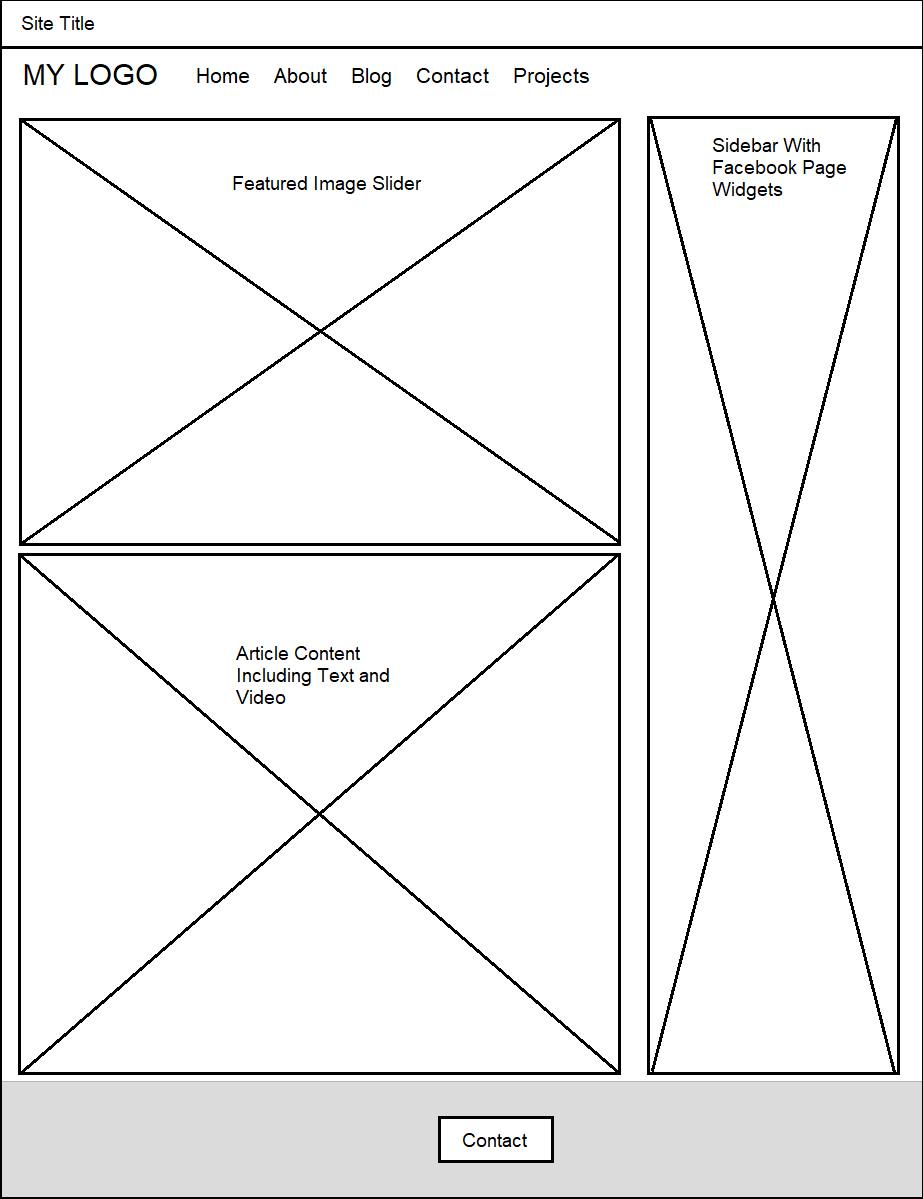
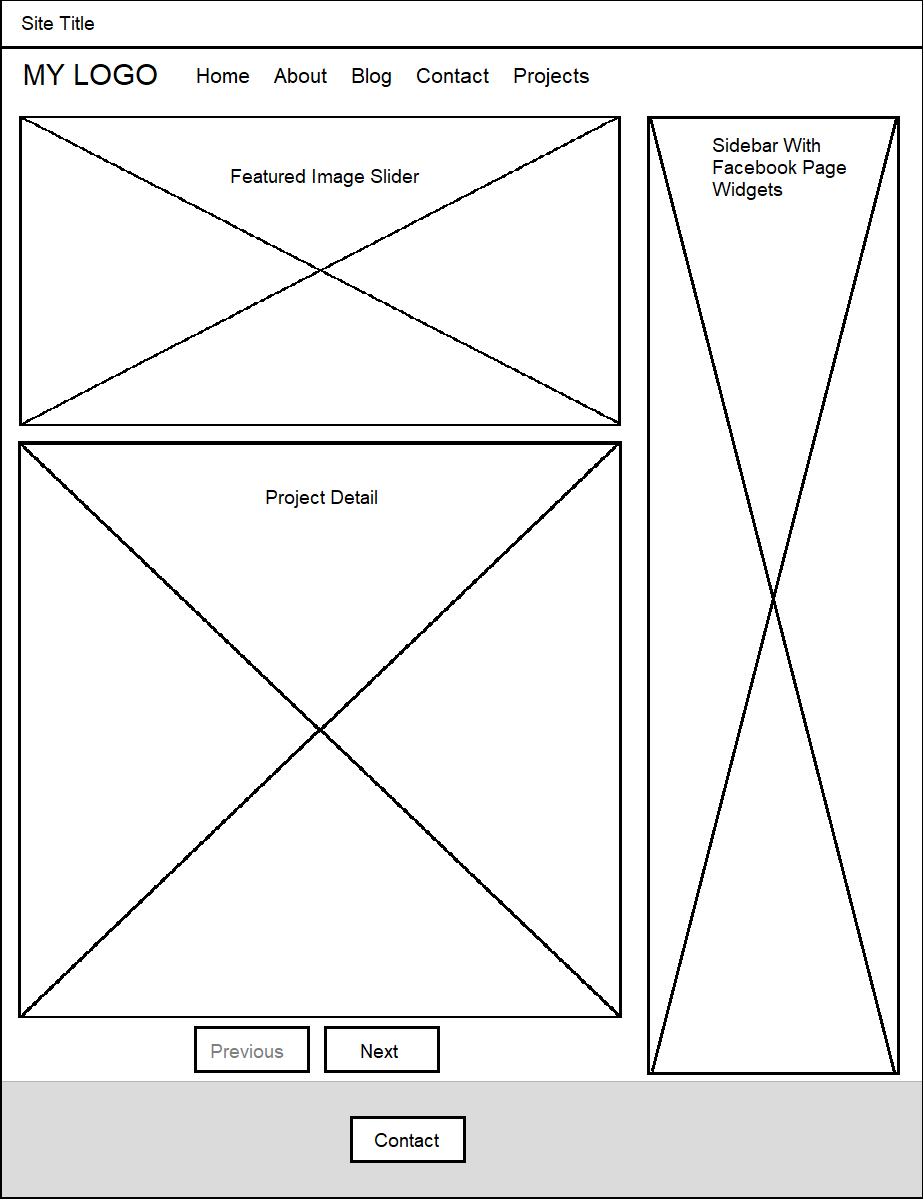
Add page navigation for projects.html. Make multiple CSS and HTML edits.

diff --git a/projects3.html b/projects3.html
@@ -5,12 +5,12 @@
     <meta name="viewport" content="width=device-width, initial-scale=1.0">
     <title>Shenica Graham's Projects</title>
     <!-- Link CSS stylesheets -->
-    <link rel="stylesheet" type="text/css" href="style/blog.css">
+    <link rel="stylesheet" type="text/css" href="style/project3.css">
     <link rel='stylesheet' href='https://fonts.googleapis.com/css?family=Beth Ellen'>
     <!-- Link Scripts -->
     <script src="https://kit.fontawesome.com/2563865650.js" crossorigin="anonymous"></script>
 </head>
-<body><!-- Wireframe Option5.png -->
+<body><!-- Wireframe Option7.png -->
     <!-- Making The Facebook Plugins Work -->
         <div id="fb-root"></div>
         <script async defer crossorigin="anonymous" src="https://connect.facebook.net/en_US/sdk.js#xfbml=1&version=v7.0" nonce="YSgZEoLg"></script>
@@ -23,9 +23,9 @@
         <nav>
           <a href="index.html">Home</a>
           <a href="about.html">About</a>
-          <a href="#" class="active"><i class="fab fa-wordpress"></i>&nbsp;Blog</a>
+          <a href="blog.html">Blog</a>
           <a href="contact.html">Contact</a>
-          <a href="projects.html">Projects</a>
+          <a href="projects.html" class="active"><i class="fas fa-project-diagram"></i>&nbsp;Projects</a>
     </div> <!-- End LOGO and Navigation Bar -->
 </header> <!-- END HEADER -->
 <!-- BEGIN content container -->
@@ -33,23 +33,45 @@
     <!------ Begin Featured Projects (main content) Column-->
     <section id="maincontent">
         <div class="projects">
-          <div class="project1">
-            <!-- BEGIN Page Content -->
-            <p><h1>Help Me Support Charity: Water</h1>
-                <h3 class="firsth3"><i class="fab fa-wordpress"></i> The Latest From My Blog...</h3>
-                <p><img src="images/charitywater.png"/></p>
-                <!-- BEGIN Portfolio Slideshow -->
-                <p>Many of us have no idea what it is like to be actually thirsty. We have plenty of water to drink — even the water in our toilets is clean! Unfortunately, many people around the world do not have that luxury.</p>
-                <p>Every day, about 1,400 children die from diseases caused by unsafe water and poor sanitation. But it does not have to be that way. There are simple solutions like drilled wells, spring protections, and BioSand filters that help provide clean water to communities across the globe. That’s where charity: water comes in. Watch “The Spring – The charity: water story.”</p>
-                <p><iframe width="560" height="315" src="https://www.youtube.com/embed/bdBG5VO01e0" frameborder="0" allow="accelerometer; autoplay; encrypted-media; gyroscope; picture-in-picture" allowfullscreen></iframe></p>
-                <p>Today, I became a <a href="https://www.charitywater.org/shenicargraham" target="_blank">Spring Member</a>, pledging a donation to charity: water every month. Since I was a child, I wanted to help people in Africa. I am teaching my Kenyan son to appreciate how fortunate we are. We have this giving project to share as a family. I hope to someday take him to see wells being built in his other home country.</p>
-                <p>We want to help provide clean and safe drinking water to members our our family and people of the world community who are in need. I also started a fundraising campaign for charity: water called, “<a href="https://www.charitywater.org/shenicargraham/songs-for-water-by-shenica-r-graham" target="_blank">Songs For Water</a>.” This fundraiser is to help charity: water build the much needed water projects around the world.</p>
-                <p>As some of you (my faithful readers) know, I am releasing a single next month (including some of the songs in the player at the bottom of this post), followed by an album in the Spring (May 2021). To boost the Songs For Water campaign, I will be donating 50% of sales from downloads of my songs to charity: water. You can purchase songs at <a href="http://reverbnation.com/shenicagraham" target="_blank">reverbnation.com/shenicagraham</a>. Spotify links coming soon!</p>
-                <p>Better yet, donate to my “Songs For Water” campaign directly by giving your gift on this page: <a href="https://www.charitywater.org/shenicargraham/songs-for-water-by-shenica-r-graham" target="_blank">https://www.charitywater.org/shenicargraham/songs-for-water-by-shenica-r-graham</a>. Anything you give is much appreciated. I will post updates as they come. Thank you in advance for your gift to support charity: water.</p>
-                <p><strong>IMPORTANT</strong>: 100% of your donation at the above linked page will be used to build clean water projects. When those projects are complete, charity: water will send us photos and GPS coordinates so we can see the exact community we helped. There’s nothing to lose and so many lives to gain, so please donate today!</p>
+            <div class="project1">
+              <p><h1>Projects 3</h1>
+                <h3 class="firsth3"><i class="fas fa-project-diagram"></i> Portfolio Details continued...</h3>
+            </div>
+            <div class="projectdetail">
+                <h3><i class="far fa-image"></i> Featured Project Overview: My Psych Teacher University</h3>
+                <h4 class="firsth3"><i class="fas fa-info-circle"></i> About My Psych Teacher University</h4>
+                <p></p>
+                <p>My Psych Teacher University (MPTU) is a fully online educational community offering flexible interactive courses in psychology, specializing in mental health and other topics under the umbrella of psychology. Our courses help students transform their mental health journey from anywhere in the world at their own pace.</p>
+                <p>My Psych Teacher University was founded May 14, 2020 by a single tutor / teacher – its current founder, Shenica R. Graham. She saw an untapped potential in the mental health education industry. This potential was in creating a new low cost position while maintaining quality competitiveness with larger more established companies on quality.</p>
+            </div>
+            <div class="projectdetail">
                 <img src="images/spacer.png">
-                <p><iframe width="100%" height="265" scrolling="no" frameborder="no" src="https://www.reverbnation.com/widget_code/html_widget/artist_845743?widget_id=55&pwc[included_songs]=1&context_type=page_object&spoid=artist_845743&pwc[size]=small&pwc[color]=dark" style="width:0px;min-width:100%;max-width:100%;"></iframe></p>
-            </p>
+                <h4 class="firsth3"><i class="fas fa-info-circle"></i> The How? My Psych Teacher University</h4>
+                <p></p>
+                <img src="images/portfolio/banners/mypsychteacherfb2020.png" width="790" title="Haute Midwest Magazine design detail"/>
+                <p>The website cover / banner shown above was designed using a Fotor image template. The color scheme and background were changed. Knowing the stigma of mental illness, I wanted to bring the opposite of despair and suffering to the forefront. When I found this template featuring a brightly smiling woman's face, I knew it was the right juxtaposition emoting joy of mental health. I also wanted the image to be colorful, like the many graphical displays of the human brain with its functioning regions depicted by different colors.</p>
+                <p class="logo"><img src="images/portfolio/banners/MyPsychTeacherUniversityLogo_Transparent_Small.png">The MPTU logo (shown at left) was designed to be a bold image of the university name, something that would be memorable and look well in a web design. It includes my trademark element of a rotated word (in this case, horiozontal to vertical): the ".COM" is vertical at the right border of the image. </p>
+                <p class="logo"><img src="images/portfolio/banners/mypsychteacher_blackbanners.png">For the My Psych Teacher (LLC) logos, I wanted to make the word "My" a standout image to show ownership by those who study here. This is a university for the people, genuinely reaching out to provide services to the mental health commmunity.</p>
+                <p>The WordPress content management system (CMA) was used to create the website. WordPress was used because as a Web and CSS designer with over 9 years experience working in WordPress, I have not found a better, more user-friendly, consistent, reliable CMS.</p>
+                <p>This project implements the Appetite WordPress template (theme), including extensive graphic design and online copywriting at MPTU (<a href="http://mypsychteacheruniversity.com" target="_blank">http://mypsychteacheruniversity.com</a>) and the parent company, My Psych Teacher, LLC (<a href="http://mypsychteacher.com" target="_blank">http://mypsychteacher.com</a>).</p>
+            </div>
+            <div class="projectdetail">
+                <img src="images/spacer.png">
+                <h4 class="firsth3"><i class="far fa-image"></i> Featured Project Element: My Psych Teacher Video</h4>
+                <p><strong>"Instructor Bio – Shenica Graham"</strong></p>
+                <p>Shenica Graham wrote the script for and recorded this video.</p>
+                <p><iframe width="560" height="315" src="https://www.youtube.com/embed/E3ydq2Lu5Io" frameborder="0" allow="accelerometer; autoplay; encrypted-media; gyroscope; picture-in-picture" allowfullscreen></iframe></p>
+            </div>
+            <div class="projectdetail">
+                <img src="images/spacer.png">
+                <h4 class="firsth3"><i class="far fa-image"></i> Featured Project Element: My Psych Teacher Video</h4>
+                <p><strong>"My Psych Teacher University is Here For You"</strong></p>
+                <p>Shenica Graham wrote the script and selected the clips for this video.</p>
+                <p><iframe width="560" height="315" src="https://www.youtube.com/embed/ssDdI_JhJFU" frameborder="0" allow="accelerometer; autoplay; encrypted-media; gyroscope; picture-in-picture" allowfullscreen></iframe></p>
+            </div>
+            <div class="projectdetail">
+                <p><br/><hr/></p>
+                <p><a href="projects2.html"><button>previous</button></a>&nbsp;&nbsp; | &nbsp;&nbsp;<a href="http://shenicargraham.com" target="_blank"><button>more</button></a></p>
             </div>
         </div>
     </section><!-------------------------------------  END Featured Projects (main content) Column  ----------->

diff --git a/projects.html b/projects.html
@@ -41,38 +41,17 @@
                 <p><div class="slideshow-container">
 
                   <div class="mySlides fade">
-                    <div class="numbertext">1 / 5</div>
+                    <div class="numbertext">1 / 2</div>
                     <img src="images/portfolio/websites/hautemidwest-3.png" style="width:100%">
                     <div class="text">WordPress Template Customization: Haute Midwest Fashion Magazine<br/>
                       <a href="http://hautemidwest.wordpress.com" target="_blank">hautemidwest.wordpress.com</a></div>
                   </div>
 
                   <div class="mySlides fade">
-                    <div class="numbertext">2 / 5</div>
+                    <div class="numbertext">2 / 2</div>
                     <img src="images/portfolio/banners/mypsychteacherfb2020.png" style="width:100%">
                     <div class="text">WordPress Template Customization: My Psych Teacher University<br/>
-                    <a href="https://mypsychteacheruniversity.com/" target="_blank">mypsychteacheruniversity.com</a></div>
-                  </div>
-
-                  <div class="mySlides fade">
-                    <div class="numbertext">3 / 5</div>
-                    <img src="images/portfolio/websites/shineonpurpose2020.png" style="width:100%">
-                    <div class="text">WordPress Template Customization: Shine on Purpose - 31 Women Ministry<br/>
-                    <a href="http://shineonpurpose.wordpress.com" target="_blank">shineonpurpose.wordpress.com</a></div>
-                  </div>
-                  
-                  <div class="mySlides fade">
-                    <div class="numbertext">4 / 5</div>
-                    <img src="images/portfolio/websites/gsyndicates2020.png" style="width:100%">
-                    <div class="text">WordPress Template Customization: GSyndicates Fashion Design<br/>
-                      <a href="http://gsyndicates.wordpress.com" target="_blank">gsyndicates.wordpress.com</a></div>
-                  </div>
-
-                  <div class="mySlides fade">
-                    <div class="numbertext">5 / 5</div>
-                    <img src="images/portfolio/websites/wiseeku.png" style="width:100%">
-                    <div class="text">WordPress Template Customization: WiSeekU Bible Study Institute<br/>
-                      <a href="http://wiseeku.wordpress.com" target="_blank">wiseeku.wordpress.com</a></div>
+                    <a href="https://mypsychteacheruniversity.com/" target="_blank">mypsychteacheruniversity.com</a> | Project details begin on <a href="projects3.html">p. 3</a></div>
                   </div>
                   
                   <a class="prev" onclick="plusSlides(-1)">&#10094;</a>
@@ -82,9 +61,16 @@
               </p><!-- END Portfolio Slideshow -->
             </div>
             <div class="projectdetail">
-                <h3><i class="far fa-image"></i> The HOW?</h3>
-                <h4 class="firsth3"><i class="far fa-image"></i> Project Overview: Haute Midwest Magazine</h4>
-                <p><br/></p>
+                <h3><i class="far fa-image"></i> Featured Project Overview: Haute Midwest Magazine</h3>
+                <h4 class="firsth3"><i class="fas fa-info-circle"></i> About Haute Midwest Magazine</h4>
+                <p></p>
+                <p>Haute Midwest Magazine (HM) online is part of Haute Midwest Enterprises family, a division of Sherell Ra Sha Inc. HM is the Official Magazine of Iowa’s premiere fashion house, House of Sherell. We help promote fashion-centered events and foster growth in the Midwest fashion industry.</p>
+                <p>Shenica R. Graham founded Haute Midwest Magazine with Sponsor, House of Sherell, on November 7, 2013 following her Apparel & Accessory Designer début (collection titled GSIA – now part of GSyndicates) at the House of Sherell Fashion Extravaganza on November 6, 2013. Her lexicographical influence and talent portfolio is driving HM to the top of the fashion u-net-verse. She envisioned the Haute Midwest brand as a multifaceted and growing enterprise. Therefore, this project began as a conglomeration of several projects undertaken at once and spanning all HM divisions.</p>
+            </div>
+            <div class="projectdetail">
+                <img src="images/spacer.png">
+                <h4 class="firsth3"><i class="fas fa-info-circle"></i> The How? Haute Midwest Magazine</h4>
+                <p></p>
                 <img src="images/portfolio/banners/hautemidwest_sherellrasha-com-1.png" width="790" title="Haute Midwest Magazine design detail"/>
                 <p>The website cover / banner shown above is a completely original design. It is an enlarged variation of the first logo that I created for Haute Midwest. How did the design come to fruition?</p>
                 <p>First, I was thinking about fashion and specifically about fashion shows. I wanted to bring the concept of the “spotlight” to the stage. Next, rotating a letter or a word in a logo name from a horizontal to a vertical orientation (or vice versa) is one of my graphic design trademarks. I have a way of finding just the right element to spin.</p>
@@ -92,29 +78,12 @@
                 <p>I created several derivative logos featuring the spotlighted and rotated “M,” each representing a different division of Haute Midwest Enterprises.</p>
                 <p class="logo"><img src="images/portfolio/logos/hautemidwest_mag.png">The WordPress content management system (CMA) was used to create the website. WordPress was used because as a Web and CSS designer with over 9 years experience working in WordPress, I have not found a better, more user-friendly, consistent, reliable CMS.</p>
                 <p>The site implements the MH Magazine WordPress template (theme). A theme was chosen in order to inherit some magazine-like functionality and to ensure that the required code is in working order before beginning any customizations.</p>
-                <p>This project required extensive graphic design and content writing including logo and banner / website cover design, marketing and copy writing, blogs, and articles. Shenica Graham wrote 99% of the content including articles and features published to this online fashion magazine, serving as the Editor In Chief. She was also the official photographer for all cover photoshoots with models. A fashion dictionary (shown below) was specially curated to add fun to the online content.</p>
-              </div>
+                <p>This project required extensive graphic design and content writing including logo and banner / website cover design, marketing and copy writing, blogs, and articles. Shenica Graham wrote 99% of the content including articles and features published to this online fashion magazine, serving as the Editor In Chief. She was also the official photographer for all cover photoshoots with models. A fashion dictionary (shown on the next page after magazine cover photos) was specially curated to add fun to the online content.</p>
+            </div>
             <div class="projectdetail">
-                <p><br/></p>
-                <h4 class="firsth3"><i class="fas fa-info-circle"></i> Featured Project Element: Specially Curated Content</h4>
-                <p><strong>The #FashionForWord Lexicon by Shenica R. Graham</strong></p>
-                <p>The Original Haute Midwest Fashion Dictionary – “Fashion is the word for life in Style!”</p>
-                <img src="images/portfolio/content/fashionforwordlexicon.png">
-           </div>
-            <div class="project234">
-                <p><br/></p>
-                <h4 class="firsth3"><i class="fas fa-info-circle"></i> Featured Project Element: Magazine Covers</h4>
-                <p></p>
-                <img src="images/portfolio/magazines/magcovercollage.png" width="790" title="Haute Midwest Magazine Covers with photography and layouts by Shenica Graham"/>
-                <p>« <a href="https://shenicargraham.com/archive/magazines/" target="_blank">more magazine covers</a></p>
-            </div>
-            <div class="project567">
-                <h3><i class="fas fa-tshirt"></i> Featured Fashion Designs</h3>
-                <img src="images/portfolio/fashion/accessories/gs-ajn001-black.png" title="GSyndicates: Black Impress Necklace"/>
-                <img src="images/portfolio/fashion/jackets/gsjeans_moxiejacket_front16.png" title="GSyndicates: Moxie Jean Jacket"/>
-                <img src="images/portfolio/fashion/accessories/bags/HMtoteBag1.png" title="Haute Midwest Tote Bag"/>
-                <p>« <a href="https://shenicargraham.com/archive/apparel/" target="_blank">more fashion designs</a></p>
-            </div>
+              <p><hr/></p>
+              <p><a href="projects2.html"><button>next</button></a></p>
+          </div>
         </div>
     </section><!-------------------------------------  END Featured Projects (main content) Column  ----------->
     <!----------------------------- BEGIN Sidebar --------------------------------------->

diff --git a/projects2.html b/projects2.html
@@ -5,12 +5,12 @@
     <meta name="viewport" content="width=device-width, initial-scale=1.0">
     <title>Shenica Graham's Projects</title>
     <!-- Link CSS stylesheets -->
-    <link rel="stylesheet" type="text/css" href="style/blog.css">
+    <link rel="stylesheet" type="text/css" href="style/project2.css">
     <link rel='stylesheet' href='https://fonts.googleapis.com/css?family=Beth Ellen'>
     <!-- Link Scripts -->
     <script src="https://kit.fontawesome.com/2563865650.js" crossorigin="anonymous"></script>
 </head>
-<body><!-- Wireframe Option5.png -->
+<body><!-- Wireframe Option7.png -->
     <!-- Making The Facebook Plugins Work -->
         <div id="fb-root"></div>
         <script async defer crossorigin="anonymous" src="https://connect.facebook.net/en_US/sdk.js#xfbml=1&version=v7.0" nonce="YSgZEoLg"></script>
@@ -23,9 +23,9 @@
         <nav>
           <a href="index.html">Home</a>
           <a href="about.html">About</a>
-          <a href="#" class="active"><i class="fab fa-wordpress"></i>&nbsp;Blog</a>
+          <a href="blog.html">Blog</a>
           <a href="contact.html">Contact</a>
-          <a href="projects.html">Projects</a>
+          <a href="projects.html" class="active"><i class="fas fa-project-diagram"></i>&nbsp;Projects</a>
     </div> <!-- End LOGO and Navigation Bar -->
 </header> <!-- END HEADER -->
 <!-- BEGIN content container -->
@@ -33,23 +33,28 @@
     <!------ Begin Featured Projects (main content) Column-->
     <section id="maincontent">
         <div class="projects">
-          <div class="project1">
-            <!-- BEGIN Page Content -->
-            <p><h1>Help Me Support Charity: Water</h1>
-                <h3 class="firsth3"><i class="fab fa-wordpress"></i> The Latest From My Blog...</h3>
-                <p><img src="images/charitywater.png"/></p>
-                <!-- BEGIN Portfolio Slideshow -->
-                <p>Many of us have no idea what it is like to be actually thirsty. We have plenty of water to drink — even the water in our toilets is clean! Unfortunately, many people around the world do not have that luxury.</p>
-                <p>Every day, about 1,400 children die from diseases caused by unsafe water and poor sanitation. But it does not have to be that way. There are simple solutions like drilled wells, spring protections, and BioSand filters that help provide clean water to communities across the globe. That’s where charity: water comes in. Watch “The Spring – The charity: water story.”</p>
-                <p><iframe width="560" height="315" src="https://www.youtube.com/embed/bdBG5VO01e0" frameborder="0" allow="accelerometer; autoplay; encrypted-media; gyroscope; picture-in-picture" allowfullscreen></iframe></p>
-                <p>Today, I became a <a href="https://www.charitywater.org/shenicargraham" target="_blank">Spring Member</a>, pledging a donation to charity: water every month. Since I was a child, I wanted to help people in Africa. I am teaching my Kenyan son to appreciate how fortunate we are. We have this giving project to share as a family. I hope to someday take him to see wells being built in his other home country.</p>
-                <p>We want to help provide clean and safe drinking water to members our our family and people of the world community who are in need. I also started a fundraising campaign for charity: water called, “<a href="https://www.charitywater.org/shenicargraham/songs-for-water-by-shenica-r-graham" target="_blank">Songs For Water</a>.” This fundraiser is to help charity: water build the much needed water projects around the world.</p>
-                <p>As some of you (my faithful readers) know, I am releasing a single next month (including some of the songs in the player at the bottom of this post), followed by an album in the Spring (May 2021). To boost the Songs For Water campaign, I will be donating 50% of sales from downloads of my songs to charity: water. You can purchase songs at <a href="http://reverbnation.com/shenicagraham" target="_blank">reverbnation.com/shenicagraham</a>. Spotify links coming soon!</p>
-                <p>Better yet, donate to my “Songs For Water” campaign directly by giving your gift on this page: <a href="https://www.charitywater.org/shenicargraham/songs-for-water-by-shenica-r-graham" target="_blank">https://www.charitywater.org/shenicargraham/songs-for-water-by-shenica-r-graham</a>. Anything you give is much appreciated. I will post updates as they come. Thank you in advance for your gift to support charity: water.</p>
-                <p><strong>IMPORTANT</strong>: 100% of your donation at the above linked page will be used to build clean water projects. When those projects are complete, charity: water will send us photos and GPS coordinates so we can see the exact community we helped. There’s nothing to lose and so many lives to gain, so please donate today!</p>
+            <div class="project1">
+              <p><h1>Projects 2</h1>
+                <h3 class="firsth3"><i class="fas fa-project-diagram"></i> Portfolio Details continued...</h3>
+            </div>
+            <div class="projectdetail">
+                <h4 class="firsth3"><i class="fas fa-info-circle"></i> The How? Haute Midwest Magazine p. 2</h4></div>
+            <div class="project234">
+                <h4 class="firsth3"><i class="far fa-image"></i> Featured Project Element: Magazine Covers</h4>
+                <p></p>
+                <img src="images/portfolio/magazines/magcovercollage.png" width="790" title="Haute Midwest Magazine Covers with photography and layouts by Shenica Graham"/>
+                <p>All of the above magazine covers were designed by Shenica Graham. For all except one of the covers (March 2019 apparel by Ra Sha), Shenica designed and constructed the apparel worn by the models. Shenica took the photos and created the cover layouts.</p>
+            </div>
+            <div class="projectdetail">
                 <img src="images/spacer.png">
-                <p><iframe width="100%" height="265" scrolling="no" frameborder="no" src="https://www.reverbnation.com/widget_code/html_widget/artist_845743?widget_id=55&pwc[included_songs]=1&context_type=page_object&spoid=artist_845743&pwc[size]=small&pwc[color]=dark" style="width:0px;min-width:100%;max-width:100%;"></iframe></p>
-            </p>
+                <h4 class="firsth3"><i class="far fa-image"></i> Featured Project Element: Specially Curated Content</h4>
+                <p><strong>The #FashionForWord Lexicon by Shenica R. Graham</strong></p>
+                <p>The Original Haute Midwest Fashion Dictionary – “Fashion is the word for life in Style!”</p>
+                <img src="images/portfolio/content/fashionforwordlexicon.png">
+            </div>
+            <div class="projectdetail">
+                <p><hr/></p>
+                <p><a href="projects.html"><button>previous</button></a>&nbsp;&nbsp; | &nbsp;&nbsp;<a href="projects3.html"><button>next</button></a></p>
             </div>
         </div>
     </section><!-------------------------------------  END Featured Projects (main content) Column  ----------->

diff --git a/about.html b/about.html
@@ -56,7 +56,7 @@
             <div class="project234">
                 <h3><i class="far fa-image"></i> Featured Portfolio Elements: Magazine Covers</h3>
                 <img src="images/portfolio/magazines/magcovercollage.png" width="790" title="Haute Midwest Magazine Covers with photography and layouts by Shenica Graham"/>
-                <p>All of the above magazine covers were designed by Shenica Graham. For all except one of the covers (March 2019 apparel by Ra Sha), she designed and constructed the apparel worn by the models. Shenica took the photos, and created the cover layouts.</p>
+                <p>All of the above magazine covers were designed by Shenica Graham. For all except one of the covers (March 2019 apparel by Ra Sha), Shenica designed and constructed the apparel worn by the models. Shenica took the photos and created the cover layouts.</p>
                 <p>« <a href="projects.html">more portfolio elements</a></p>
             </div>
         </div>
